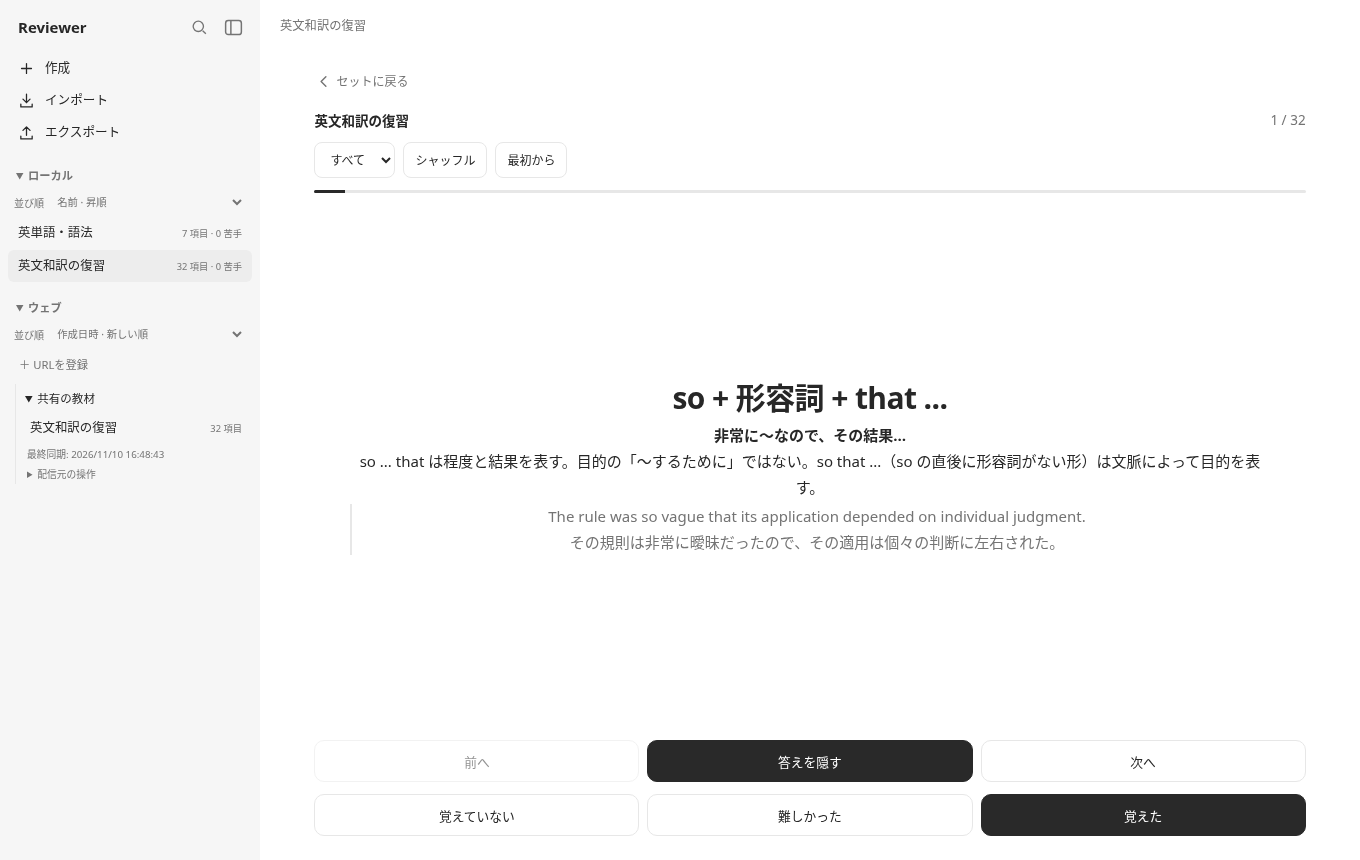
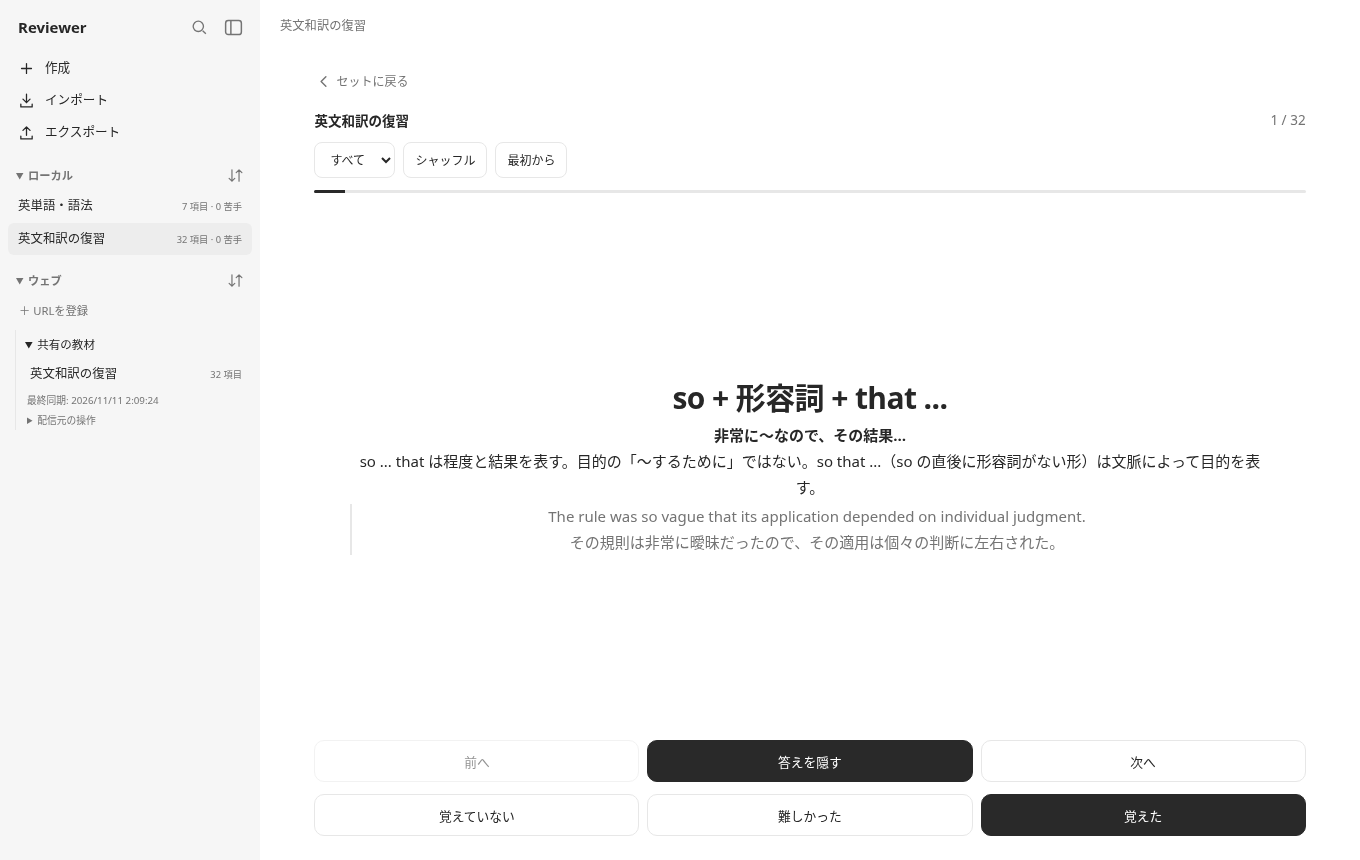
Document dialog controls and refresh Reviewer screenshots

diff --git a/README.md b/README.md
@@ -44,7 +44,9 @@ PC・タブレット・スマートフォンに対応し、端末設定に合わ
 2. サイドバーの「作成」で教材を作るか、「インポート」でJSONを読み込む。
 3. 学習セットを選んで「単語カード」または「クイズ」を始める。
 
-虫眼鏡ボタンから教材を検索できます。サイドバー上部の開閉ボタンを押すと教材一覧を隠し、右側のボタンから再表示できます。モバイルでは教材を選ぶとサイドバーが閉じます。
+虫眼鏡ボタンから教材を検索し、ローカル・ウェブの見出し右側にある矢印アイコンから並び順を選べます。サイドバー上部の開閉ボタンを押すと教材一覧を隠し、右側のボタンから再表示できます。モバイルでは教材を選ぶとサイドバーが閉じます。
+
+カード右側の本のアイコンを押すと、解説・例を専用ダイアログで読めます。鉛筆アイコンで編集、ごみ箱アイコンで削除できます。ダイアログは本文だけがスクロールし、保存・キャンセル・閉じるボタンは常に下部に表示されます。
 
 ### 公開URLの教材を使う
 
